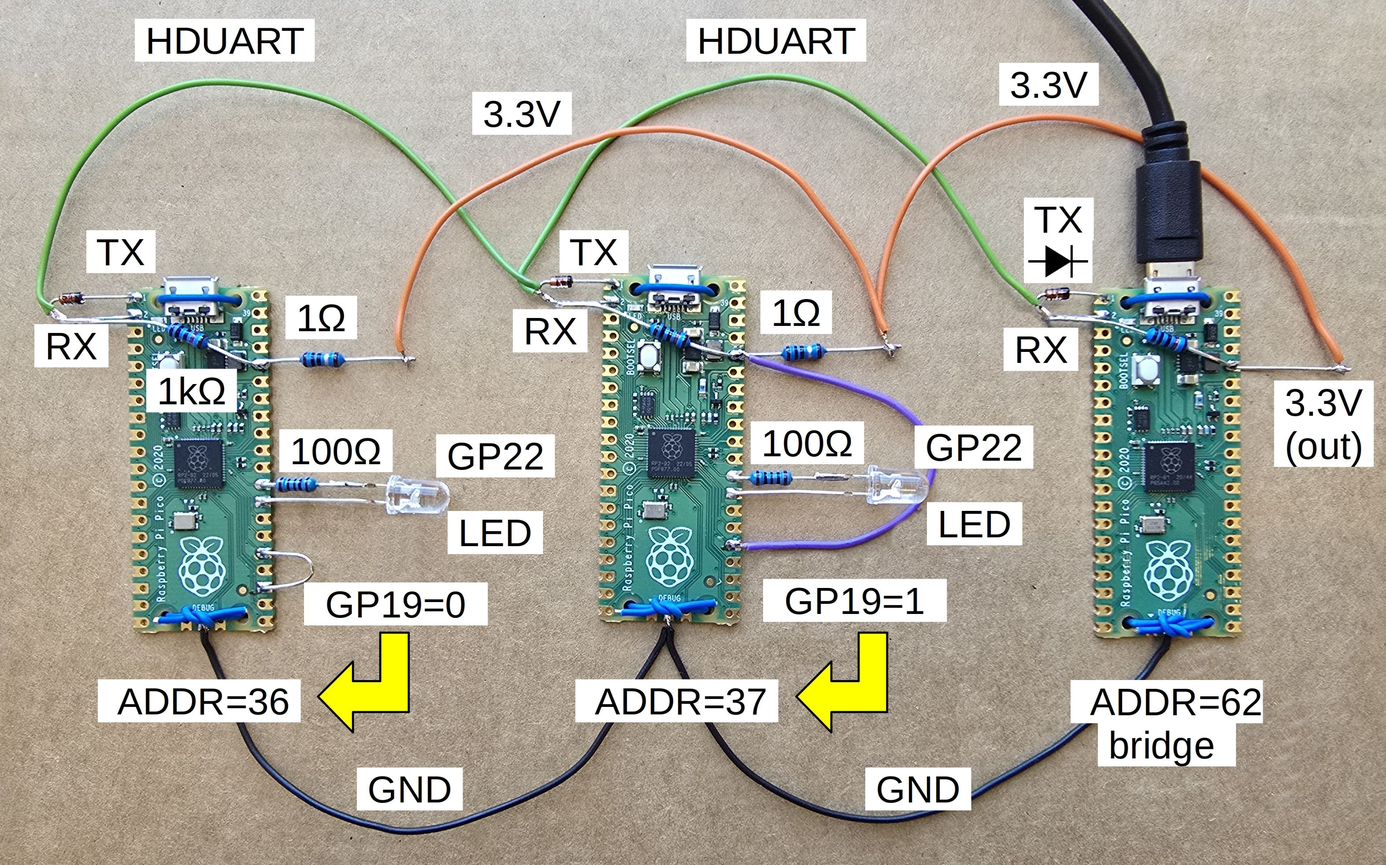
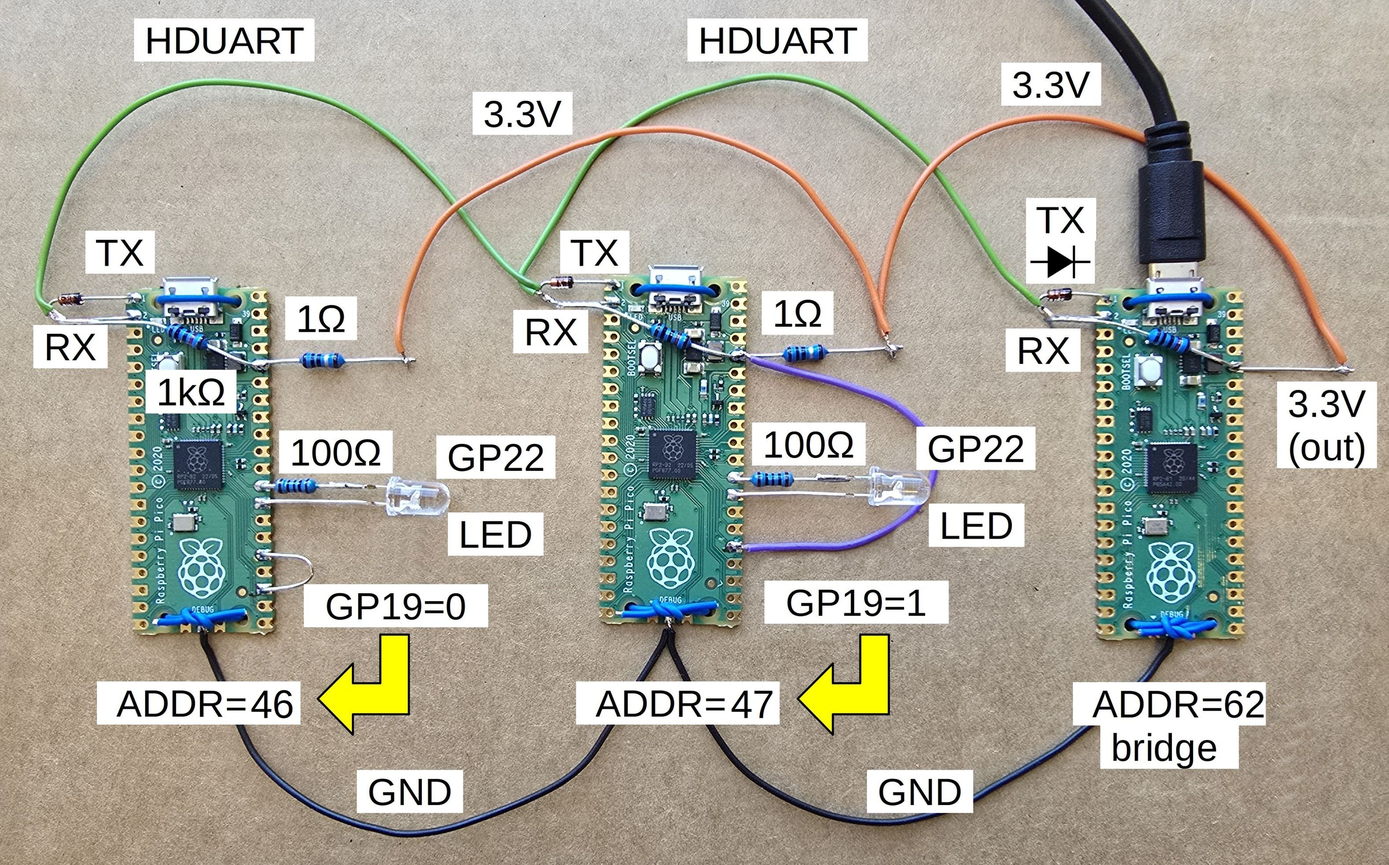
Example project: add ADC reads

diff --git a/pico_app/main.c b/pico_app/main.c
@@ -17,11 +17,29 @@
 #include "pico/multicore.h"
 #include "libpqp/libpqp.h"
 #include "libpqp_hws.h"
+#include "hardware/adc.h"
 
 #define TTY_PORT	(31)
 
 #define LED		(22)
-// alternative: #define LED	PICO_DEFAULT_LED_PIN
+
+uint16_t ad_values[4];
+
+bool repeating_timer_callback(__unused struct repeating_timer *t)
+{
+	// blinking on-board LED
+	gpio_put(PICO_DEFAULT_LED_PIN, !gpio_get(PICO_DEFAULT_LED_PIN));
+	return true;
+}
+
+void read_ad(void)
+{
+	for(int i=26; i<26+4; i++)
+	{
+		adc_select_input(i-26);
+		ad_values[i-26]=adc_read();
+	}
+}
 
 void main_core1( void )
 {
@@ -37,6 +55,21 @@ void main_core1( void )
 	gpio_set_dir(LED, GPIO_OUT);
 	gpio_put(LED, 0);
 	
+	gpio_init(PICO_DEFAULT_LED_PIN);
+	gpio_set_dir(PICO_DEFAULT_LED_PIN, GPIO_OUT);
+	gpio_put(PICO_DEFAULT_LED_PIN, 0);
+	
+	struct repeating_timer timer;
+	add_repeating_timer_ms(-500, repeating_timer_callback, NULL, &timer);
+
+	adc_init();
+
+	for(int i=26; i<26+4; i++)
+	{
+		adc_gpio_init(i);
+	}
+
+
 	while (1)
 	{
 		int rxlen = pqp_recv( rdata, &dst_addr , &src_addr, &dst_port, &src_port, &priority );
@@ -52,7 +85,7 @@ void main_core1( void )
 						switch(rdata[0])
 						{
 							case 'h':
-								txlen = sprintf(tdata,"h help\n1 LED on\n0 LED off\n");
+								txlen = sprintf(tdata,"h help\n1 LED on\n0 LED off\na read ADC\n");
 								break;
 							case '0':
 								gpio_put(LED, 0);
@@ -61,6 +94,10 @@ void main_core1( void )
 							case '1':
 								gpio_put(LED, 1);
 								txlen=sprintf(tdata, "LED=1\n");
+								break;
+							case 'a':
+								read_ad();
+								txlen=sprintf(tdata, "%04d,%04d,%04d,%04d\n",ad_values[0],ad_values[1],ad_values[2],ad_values[3]);
 								break;
 							default:
 								break;
@@ -75,6 +112,11 @@ void main_core1( void )
 						gpio_put(LED, led_state);
 						txlen=sprintf(tdata, "LED=%d\n", led_state);
 					}
+				} else
+				if (dst_port == 56)
+				{
+					read_ad();
+					txlen=sprintf(tdata, "%04d,%04d,%04d,%04d\n",ad_values[0],ad_values[1],ad_values[2],ad_values[3]);
 				} else
 				if (dst_port == 100)
 				{

diff --git a/gnd_apps/read_ad.c b/gnd_apps/read_ad.c
@@ -1,0 +1,34 @@
+/* Copyright (C) 2026 szlldm
+ * 
+ * This file is part of PicoPQP
+ * 
+ * The source code of this project is dual‑licensed under the GNU General Public License v3.0 (GPLv3) or the GNU Affero General Public License v3.0 (AGPLv3), at your option.
+ * This project depends on the LibPQP library, which is licensed under AGPLv3 or a commercial license.
+ * When this project is used together with the AGPLv3‑licensed version of the library, the resulting combined work is available only under the AGPLv3.
+ * Users who obtain a commercial license for the library may instead use this project under the GPLv3 terms.
+ * You should have received a copy of the AGPLv3 or GPLv3 license along with this
+ * program. If not, see <https://www.gnu.org/licenses/>.
+ */
+
+#include "gnd_app_base.h"
+
+// argument descriptors
+const char * arguments_list = "";
+const int arguments_required_num = 0;
+/////////////////////////////////////
+
+int app_main( int argc, char** argv )
+{
+	set_port(56);
+	send_data( NULL, 0 );
+	char buf[512];
+	int rxlen = receive_data(buf, false, DEFAULT_TIMEOUT);
+	if (rxlen > 0)
+	{
+		buf[rxlen] = 0;
+		printf("%s",buf);
+		fflush(stdout);
+	}
+	return 0;
+}
+

diff --git a/pico_bootloader/pqp_defines.h b/pico_bootloader/pqp_defines.h
@@ -18,7 +18,7 @@
 #include "pqp_addresses.h"
 
 // use define PQP_COMx, PQP_OBCx for MY_BASE_ADDRESS !
-#define MY_BASE_ADDRESS		(36)					// my PQP address is 36 and 37 for the redundant part
+#define MY_BASE_ADDRESS		(46)					// my PQP address is 46 and 47 for the redundant part
 #define ADDRESS_MODIFIER_ID_PIN	(19)
 
 // optional parameter override:

diff --git a/Example_project.md b/Example_project.md
@@ -72,17 +72,17 @@ In case the bridge the gnd app provides a text based menu. Here select the HDUAR
 
 After the above steps are performed, test that the subsystem boards are reachable, using the **ping** gnd app:
 
-`./ping 36`
+`./ping 46`
 
-`./ping 37`
+`./ping 47`
 
 If you prefer text based addresses instead of numeric, add these to **gnd_app_base.c / convert_arg_to_addr** function, then rebuild the gnd apps.
 
 If both subsystem Pico board is reachable, do transfer test with maximum payload (264 bytes):
 
-`./transfer_test 36 264`
+`./transfer_test 46 264`
 
-`./transfer_test 37 264`
+`./transfer_test 47 264`
 
 ## Create your own firmware
 
@@ -92,17 +92,17 @@ Build the application using the **build.sh** script.
 
 In the build folder the **pico_app.bin** has to be uploaded using the **upload_fw** gnd app. **IMPORTANT**: do not use the .uf2 file.
 
-`./upload_fw 36 relative/or/absolute/path/to/pico_app.bin -a`
+`./upload_fw 46 relative/or/absolute/path/to/pico_app.bin -a`
 
 The `-a` switch is optional, but recommended, if the flash does not store anything else above the firmware.
 
 If the upload process is finished, and the uploader indicates successful CRC check, the uploaded firmware can be started using the **run_fw** gnd app.
 
-`./run_fw 36`
+`./run_fw 46`
 
 The successful firmware star can be tested using
 
-`./ping 36`
+`./ping 46`
 
 ## Remote control
 
@@ -112,7 +112,7 @@ Using **tty** the control is interactive. Enter *h* for the help menu.
 
 The **led_control** is an example for custom gnd apps. The LED control parameter is passed as a command parameter:
 
-`./led_control 36 0`
+`./led_control 46 0`
 
-`./led_control 36 1`
+`./led_control 46 1`
 
